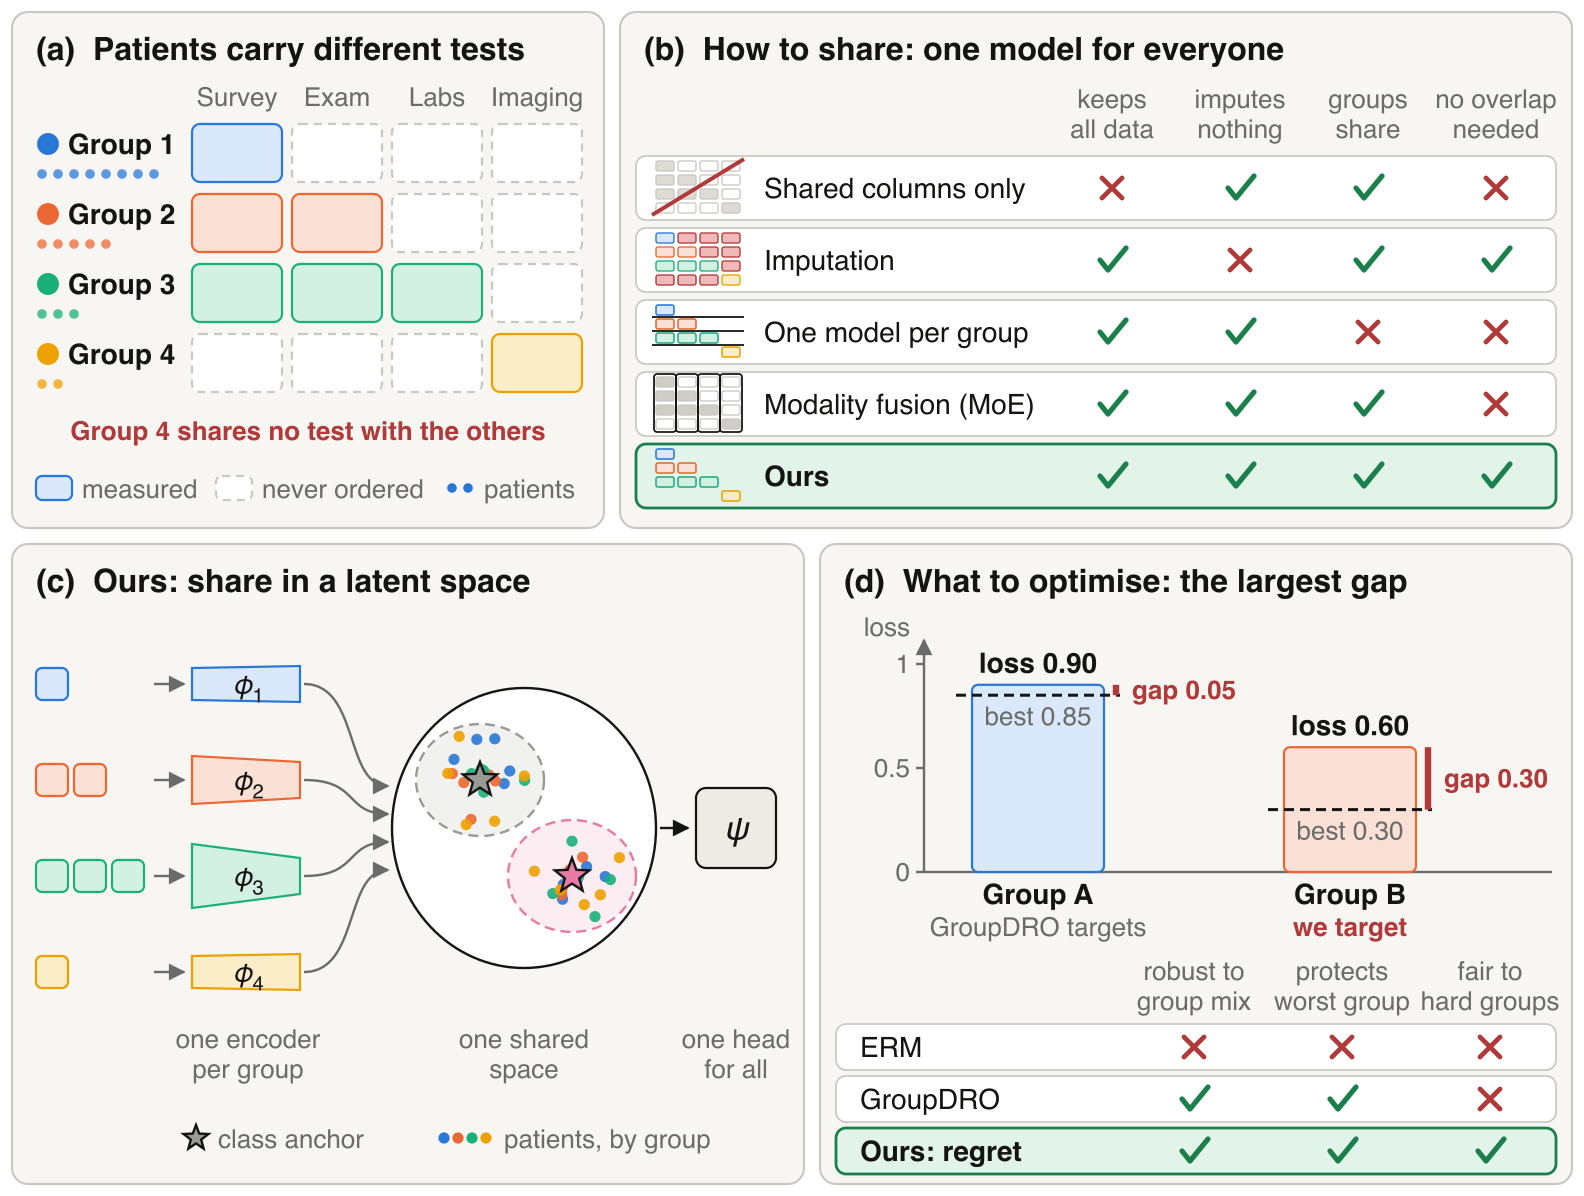
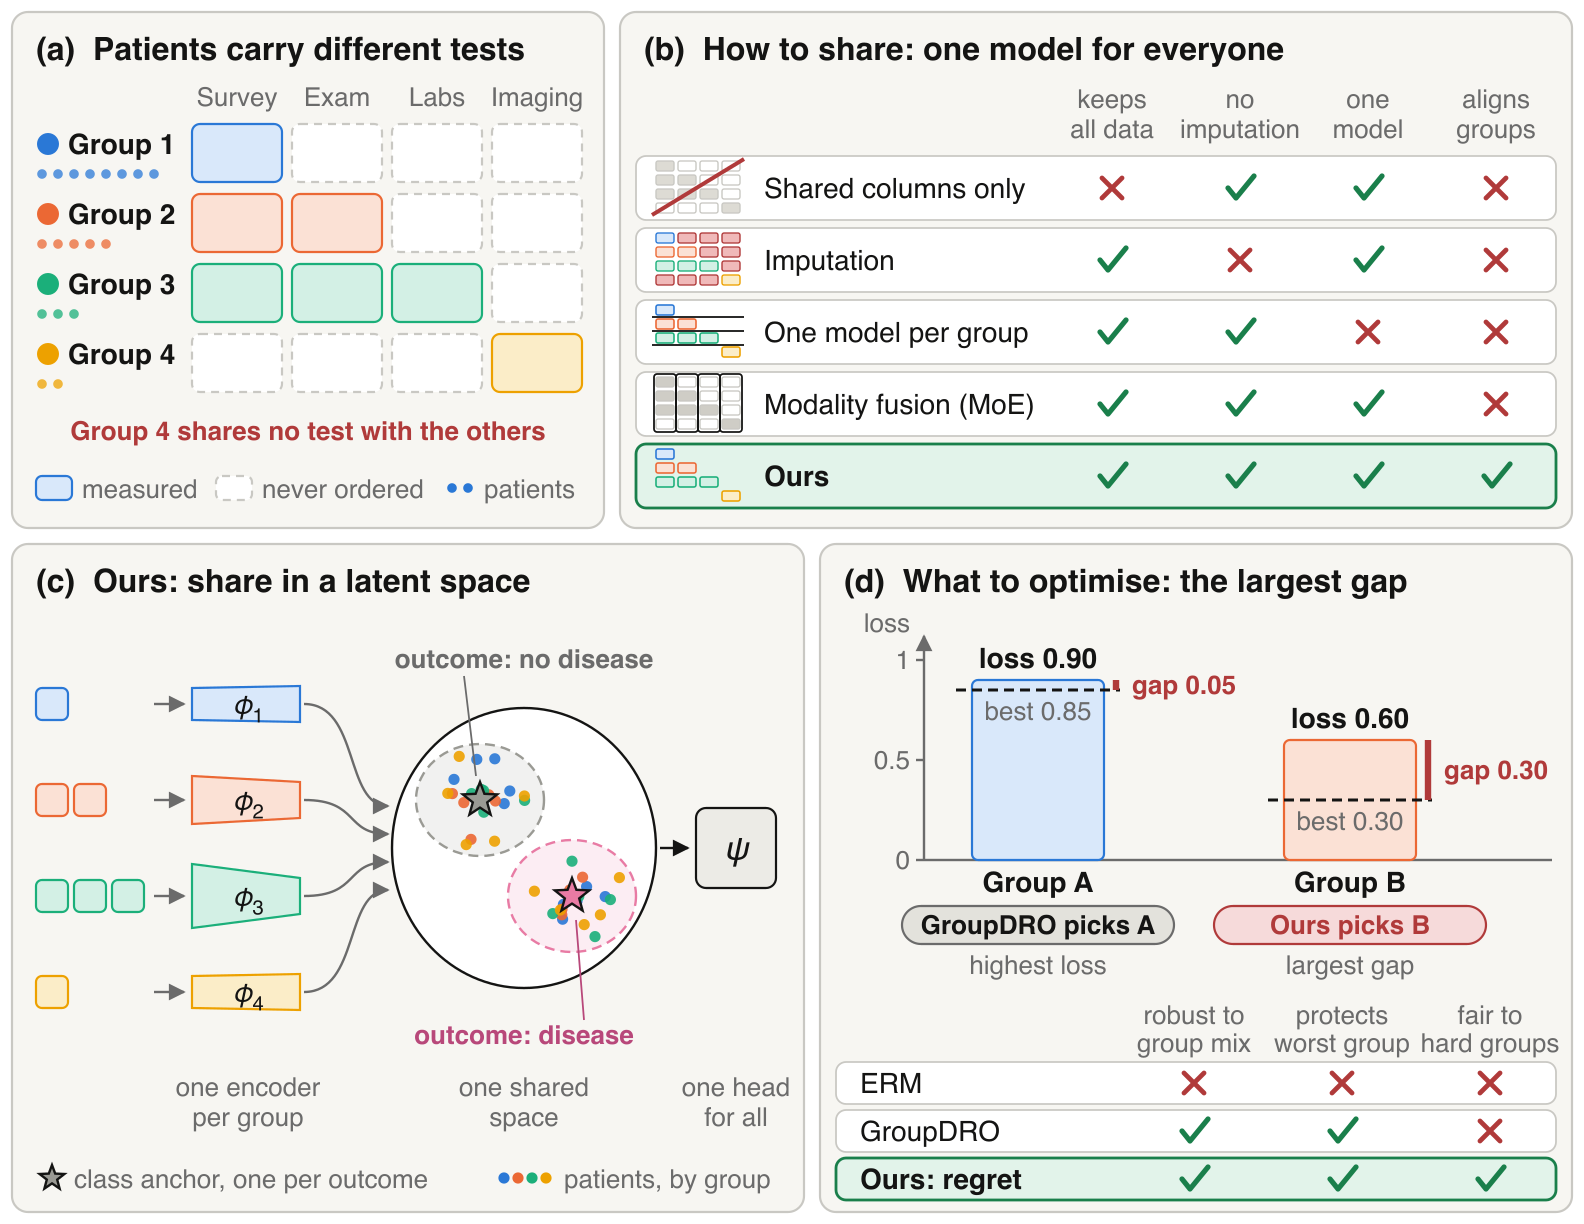
Intro figure v4: checklist columns (no imputation, one model, aligns groups), anchors labelled by outcome, objective badges

diff --git a/make_diagram_figures.py b/make_diagram_figures.py
@@ -153,7 +153,7 @@ def pict(S, x, y, kind):
 
 
 def intro():
-    S = Svg(792, 598, "Patients carry different sets of tests, so no single input space exists. Dropping to shared columns, imputing, one model "
+    S = Svg(792, 612, "Patients carry different sets of tests, so no single input space exists. Dropping to shared columns, imputing, one model "
                       "per group and modality fusion each give up a property; the proposed method keeps all measured data, imputes nothing and "
                       "couples groups even when they share no test, by giving each group its own encoder into one shared latent space with "
                       "class anchors. ERM and GroupDRO each miss a property of the objective; the proposed objective protects the group "
@@ -185,10 +185,10 @@ def intro():
     S.rect(310, 6, 476, 258, PANEL, LINE, 8)
     S.text(322, 30, "(b)  How to share: one model for everyone", T, weight="700")
     cx0, cwid = 524, 64
-    heads = [("keeps", "all data"), ("imputes", "nothing"), ("groups", "share"), ("no overlap", "needed")]
+    heads = [("keeps", "all data"), ("no", "imputation"), ("one", "model"), ("aligns", "groups")]
     for c, (h1, h2) in enumerate(heads):
         S.text(cx0 + c * cwid + cwid / 2, 54, h1, SM, "middle", fill=DIM); S.text(cx0 + c * cwid + cwid / 2, 69, h2, SM, "middle", fill=DIM)
-    rows = [("Shared columns only", "drop", [0, 1, 1, 0]), ("Imputation", "impute", [1, 0, 1, 1]),
+    rows = [("Shared columns only", "drop", [0, 1, 1, 0]), ("Imputation", "impute", [1, 0, 1, 0]),
             ("One model per group", "separate", [1, 1, 0, 0]), ("Modality fusion (MoE)", "fusion", [1, 1, 1, 0]),
             ("Ours", "ours", [1, 1, 1, 1])]
     for r, (name, kind, props) in enumerate(rows):
@@ -201,10 +201,10 @@ def intro():
             mark(S, cx0 + c * cwid + cwid / 2, yy + 16, ok)
 
     # ---------------- (c) ----------------
-    S.rect(6, 272, 396, 320, PANEL, LINE, 8)
+    S.rect(6, 272, 396, 334, PANEL, LINE, 8)
     S.text(18, 296, "(c)  Ours: share in a latent space", T, weight="700")
-    ys = [334, 382, 430, 478]
-    cyc = 414
+    ys = [344, 392, 440, 488]
+    cyc = 424
     for r in range(4):
         y = ys[r]; n = sum(HAVE[r])
         for k in range(n):
@@ -222,27 +222,29 @@ def intro():
             for _ in range(5):
                 S.circle(ax + rnd.gauss(0, 11), ay + rnd.gauss(0, 9), 2.8, GROUPS[g], op=0.9)
         S.star(ax, ay, 9, col)
+    S.line(232, cyc - 86, 238, cyc - 36, DIM, False, sw=0.9); S.text(262, cyc - 90, "outcome: no disease", SM, "middle", fill=DIM, weight="600")
+    S.line(292, cyc + 86, 288, cyc + 36, "#b8487a", False, sw=0.9); S.text(262, cyc + 98, "outcome: disease", SM, "middle", fill="#b8487a", weight="600")
     S.line(330, cyc, 344, cyc)
     S.rect(348, cyc - 20, 40, 40, "#ecebe6", INK, 5)
     S.add(f'<text x="368" y="{cyc+6}" font-size="17" text-anchor="middle" font-style="italic">ψ</text>')
-    S.text(124, 524, "one encoder", SM, "middle", fill=DIM); S.text(124, 539, "per group", SM, "middle", fill=DIM)
-    S.text(262, 524, "one shared", SM, "middle", fill=DIM); S.text(262, 539, "space", SM, "middle", fill=DIM)
-    S.text(368, 524, "one head", SM, "middle", fill=DIM); S.text(368, 539, "for all", SM, "middle", fill=DIM)
-    S.star(98, 569, 6.5, NEG); S.text(109, 574, "class anchor", SM, fill=DIM)
+    S.text(124, 548, "one encoder", SM, "middle", fill=DIM); S.text(124, 563, "per group", SM, "middle", fill=DIM)
+    S.text(262, 548, "one shared", SM, "middle", fill=DIM); S.text(262, 563, "space", SM, "middle", fill=DIM)
+    S.text(368, 548, "one head", SM, "middle", fill=DIM); S.text(368, 563, "for all", SM, "middle", fill=DIM)
+    S.star(26, 589, 6.5, NEG); S.text(37, 594, "class anchor, one per outcome", SM, fill=DIM)
     for g in range(4):
-        S.circle(222 + g * 7, 569, 2.8, GROUPS[g])
-    S.text(252, 574, "patients, by group", SM, fill=DIM)
+        S.circle(252 + g * 7, 589, 2.8, GROUPS[g])
+    S.text(282, 594, "patients, by group", SM, fill=DIM)
 
     # ---------------- (d) what to optimise ----------------
-    S.rect(410, 272, 376, 320, PANEL, LINE, 8)
+    S.rect(410, 272, 376, 334, PANEL, LINE, 8)
     S.text(422, 296, "(d)  What to optimise: the largest gap", T, weight="700")
-    base, scale, ax = 436, 104, 462
+    base, scale, ax = 430, 100, 462
     S.line(ax, base, ax, base - scale - 12, DIM, True); S.text(ax - 7, base - scale - 14, "loss", SM, "end", fill=DIM)
     for v in (0, 0.5, 1.0):
         S.line(ax - 4, base - v * scale, ax, base - v * scale, DIM, False); S.text(ax - 7, base - v * scale + 4.5, f"{v:g}", SM, "end", fill=DIM)
     S.line(ax, base, 776, base, DIM, False)
-    for i, (lab, loss, floor, who, col, pas) in enumerate([("Group A", 0.90, 0.85, "GroupDRO targets", GROUPS[0], PASTEL[0]),
-                                                           ("Group B", 0.60, 0.30, "we target", GROUPS[1], PASTEL[1])]):
+    for i, (lab, loss, floor, who, why, col, pas) in enumerate([("Group A", 0.90, 0.85, "GroupDRO picks A", "highest loss", GROUPS[0], PASTEL[0]),
+                                                                ("Group B", 0.60, 0.30, "Ours picks B", "largest gap", GROUPS[1], PASTEL[1])]):
         bx = 486 + i * 156
         S.rect(bx, base - loss * scale, 66, loss * scale, pas, col, 3)
         S.text(bx + 33, base - loss * scale - 6, f"loss {loss:.2f}", B, "middle", weight="600")
@@ -252,18 +254,20 @@ def intro():
         gy = base - (loss + floor) / 2 * scale
         S.text(bx + 80, gy + 4.5, f"gap {loss-floor:.2f}", SM, fill=RED, weight="700")
         S.text(bx + 33, base + 16, lab, B, "middle", weight="600")
-        S.text(bx + 33, base + 32, who, SM, "middle", fill=(RED if i else DIM), weight=("700" if i else "400"))
+        S.rect(bx + 33 - 68, base + 23, 136, 19, ("#f6dada" if i else "#e3e2dc"), (RED if i else DIM), 9.5, None, 1.1)
+        S.text(bx + 33, base + 37, who, SM, "middle", fill=(RED if i else INK), weight="700")
+        S.text(bx + 33, base + 57, why, SM, "middle", fill=DIM)
     # objective checklist, same visual language as (b)
     ox0, owid = 560, 74
     for c, (h1, h2) in enumerate([("robust to", "group mix"), ("protects", "worst group"), ("fair to", "hard groups")]):
-        S.text(ox0 + c * owid + owid / 2, 490, h1, SM, "middle", fill=DIM); S.text(ox0 + c * owid + owid / 2, 505, h2, SM, "middle", fill=DIM)
+        S.text(ox0 + c * owid + owid / 2, 512, h1, SM, "middle", fill=DIM); S.text(ox0 + c * owid + owid / 2, 526, h2, SM, "middle", fill=DIM)
     for r, (name, props) in enumerate([("ERM", [0, 0, 0]), ("GroupDRO", [1, 1, 0]), ("Ours: regret", [1, 1, 1])]):
-        yy = 512 + r * 26
+        yy = 531 + r * 24
         ours = r == 2
-        S.rect(418, yy, 360, 23, "#e2f3ea" if ours else "#ffffff", GREEN if ours else LINE, 5, None, 1.4 if ours else 0.9)
-        S.text(430, yy + 16.5, name, B, weight="700" if ours else "400")
+        S.rect(418, yy, 360, 21, "#e2f3ea" if ours else "#ffffff", GREEN if ours else LINE, 5, None, 1.4 if ours else 0.9)
+        S.text(430, yy + 15.5, name, B, weight="700" if ours else "400")
         for c, ok in enumerate(props):
-            mark(S, ox0 + c * owid + owid / 2, yy + 11.5, ok)
+            mark(S, ox0 + c * owid + owid / 2, yy + 10.5, ok)
     S.save("fig_intro_problem")
 
 

diff --git a/documentation/PaperFigures.md b/documentation/PaperFigures.md
@@ -133,3 +133,15 @@ Re-render after editing the SVG:
   each group its own encoder into one latent space, where learnt class anchors align the groups
   under a single head. (d) Groups differ in the loss their measurements permit (dashed), so we
   train against the largest gap to that level rather than the largest loss."
+- 2026-09-21 (v4 of Figure 1): panel (b) columns are now keeps all data / no imputation / one model /
+  aligns groups. "No overlap needed" was dropped because our own no-overlap experiment shows
+  REMIND-style fusion runs fine without overlap; what it lacks is an alignment mechanism. "One model"
+  is the axis on which dedicated per-group models lose (the intro's maintenance argument). Panel (c)
+  labels the two anchors by outcome and the legend says "one per outcome". Panel (d) uses badges
+  ("GroupDRO picks A" / "Ours picks B") with the reason under each. Every tick is a design property,
+  not a performance claim; the caption should stay that way (the no-overlap results do not show a
+  performance win for latent sharing over dedicated models).
+  Caption, updated sentence for (b): "...separate models share nothing and multiply what has to be
+  deployed; modality-fusion mixtures of experts (e.g. Flex-MoE, REMIND) keep one model but have no
+  mechanism that aligns groups."
+
